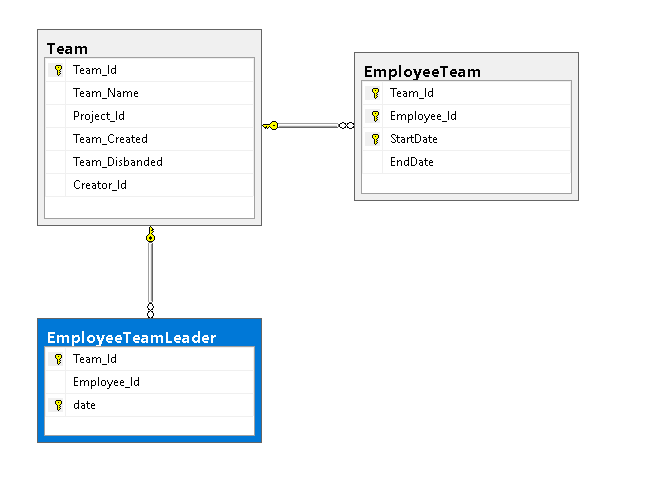
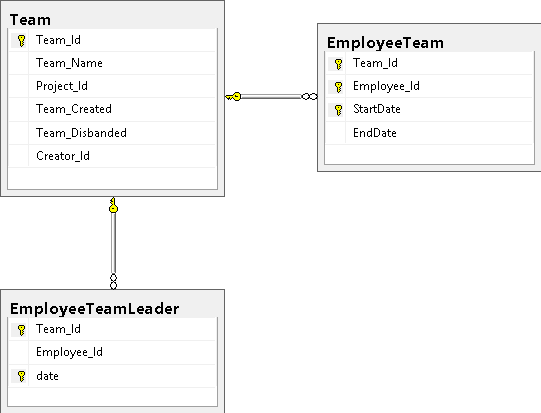
Updated diagrams and fixed double foreign key definitions

Changed region(s): [[0.0, 0.0, 0.9168, 0.9879], [0.3845, 0.9588, 0.414, 0.9879]]

diff --git a/Presentation/presentation.tex b/Presentation/presentation.tex
@@ -57,20 +57,7 @@
 
 \author[Régis, Ekatherina] % (optional, use only with lots of authors)
 {L.~Régis \and M.~Ekatherina}
-% - Use the \inst{?} command only if the authors have different
-%   affiliation.
 
-%\institute[Universities of Somewhere and Elsewhere] % (optional, but mostly needed)
-%{
-%  \inst{1}%
-%  Department of Computer Science\\
-%  University of Somewhere
-%  \and
-%  \inst{2}%
-%  Department of Theoretical Philosophy\\
-%  University of Elsewhere}
-% - Use the \inst command only if there are several affiliations.
-% - Keep it simple, no one is interested in your street address.
 
 \date[Short Occasion] % (optional)
 {11/01/2019}
